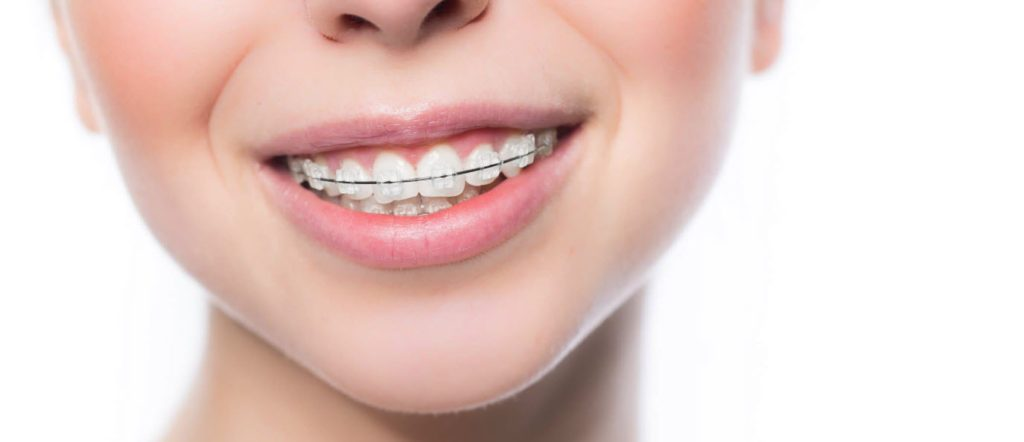
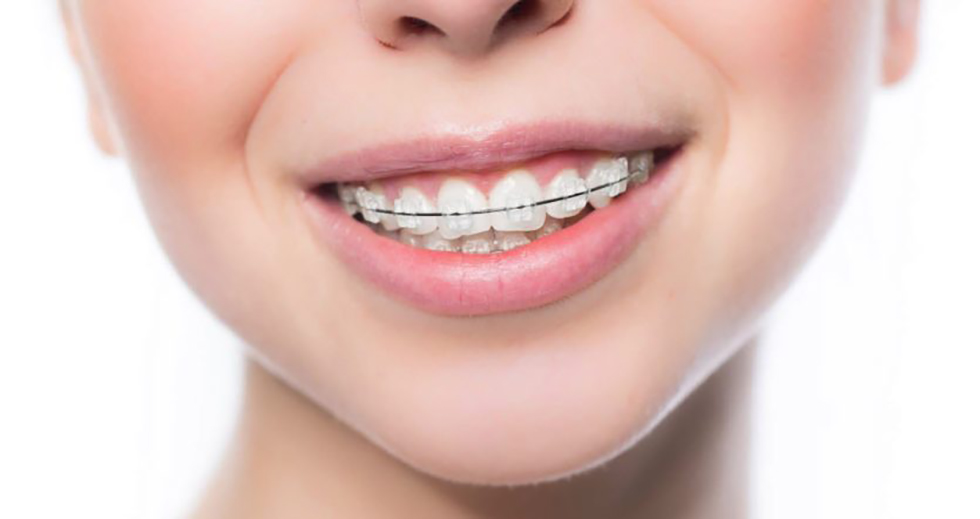
blog

diff --git a/blog.html b/blog.html
@@ -7,6 +7,7 @@
     <link rel="icon" href="img/tooth.png">
     <title>Послуги нашої клініки</title>
     <link rel="stylesheet" href="css/index.css">
+    <link rel="stylesheet" href="css/blog.css">
     </head>
 
 <body>
@@ -27,8 +28,8 @@
     </header>
     <main>
         <div>
-            <img src="img/ceramic-braces.jpg" alt="Жінка з керамічними брекетами на обох щелепах посміхається">
-            <article>
+            <img class="ceramic-braces" src="img/ceramic-braces.jpg" alt="Посмішка дівчини, що носить керамічні брекети">
+                                   <article>
                 <h2>Ми просто зобов'язані розвінчати ці міфи про брекети:</h2>
                 <ol>
                     <li>Хіба не соромно ставити брекети. У мому віці? - НІ! Чи Вам 15, 30, 45 і далі - Ви просто
@@ -51,7 +52,6 @@
                         Вашого хребта. Людський організм - це дуже складний механізм, де деформація в одній ланці може
                         спричинити значні зміни в іншій.</li>
                 </ol>
-                <br>
                 Бережіть себе!
             </article>
         </div>

diff --git a/css/blog.css b/css/blog.css
@@ -1,0 +1,40 @@
+@import url('https://fonts.googleapis.com/css2?family=PT+Serif:ital,wght@0,400;0,700;1,400;1,700&display=swap');
+
+:root {
+    font-family: 'PT Serif', serif;
+    --main-color: #444444;
+    --second-color: #606060;
+    --third-color: #ffffff;
+}
+
+h1, img, h2, ul, li, a {
+    margin: 0;
+    padding: 0;
+}
+
+body {
+    max-width: 980px;
+    margin: auto;
+}
+
+.ceramic-braces {
+    max-width: 100%;
+    height: auto;
+}
+
+article {
+    display: flex;
+    flex-wrap: wrap;
+    border: 1px solid var(--main-color);
+    border-radius: 20px;
+    margin: 30px 0 15px 0;
+    padding: 15px;
+    text-align: justify;
+    color: rgb(32, 32, 32);
+    font-size: 20px;
+}
+
+h2 {
+    margin: auto;
+}
+
